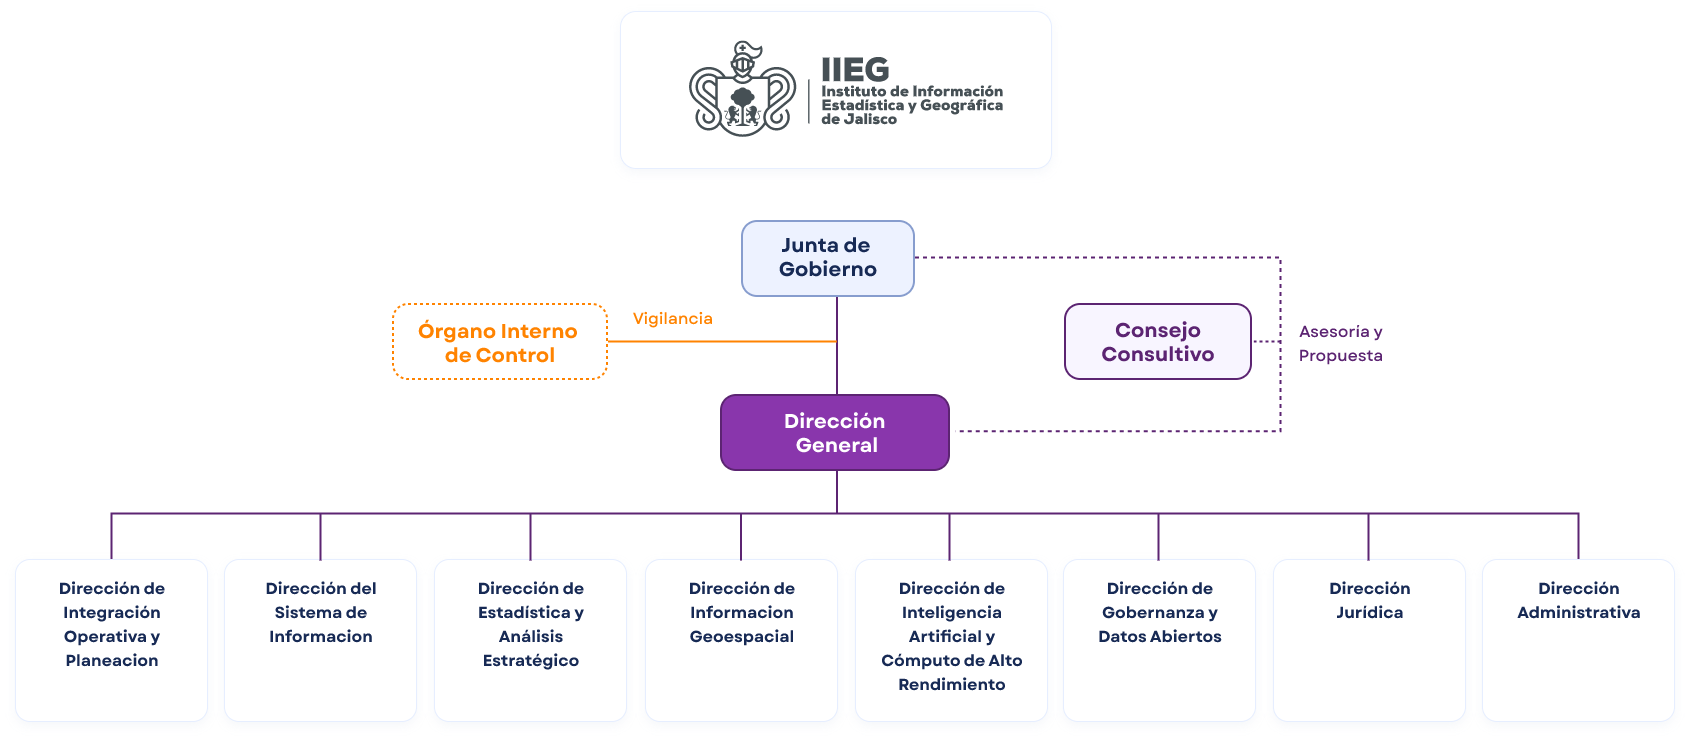
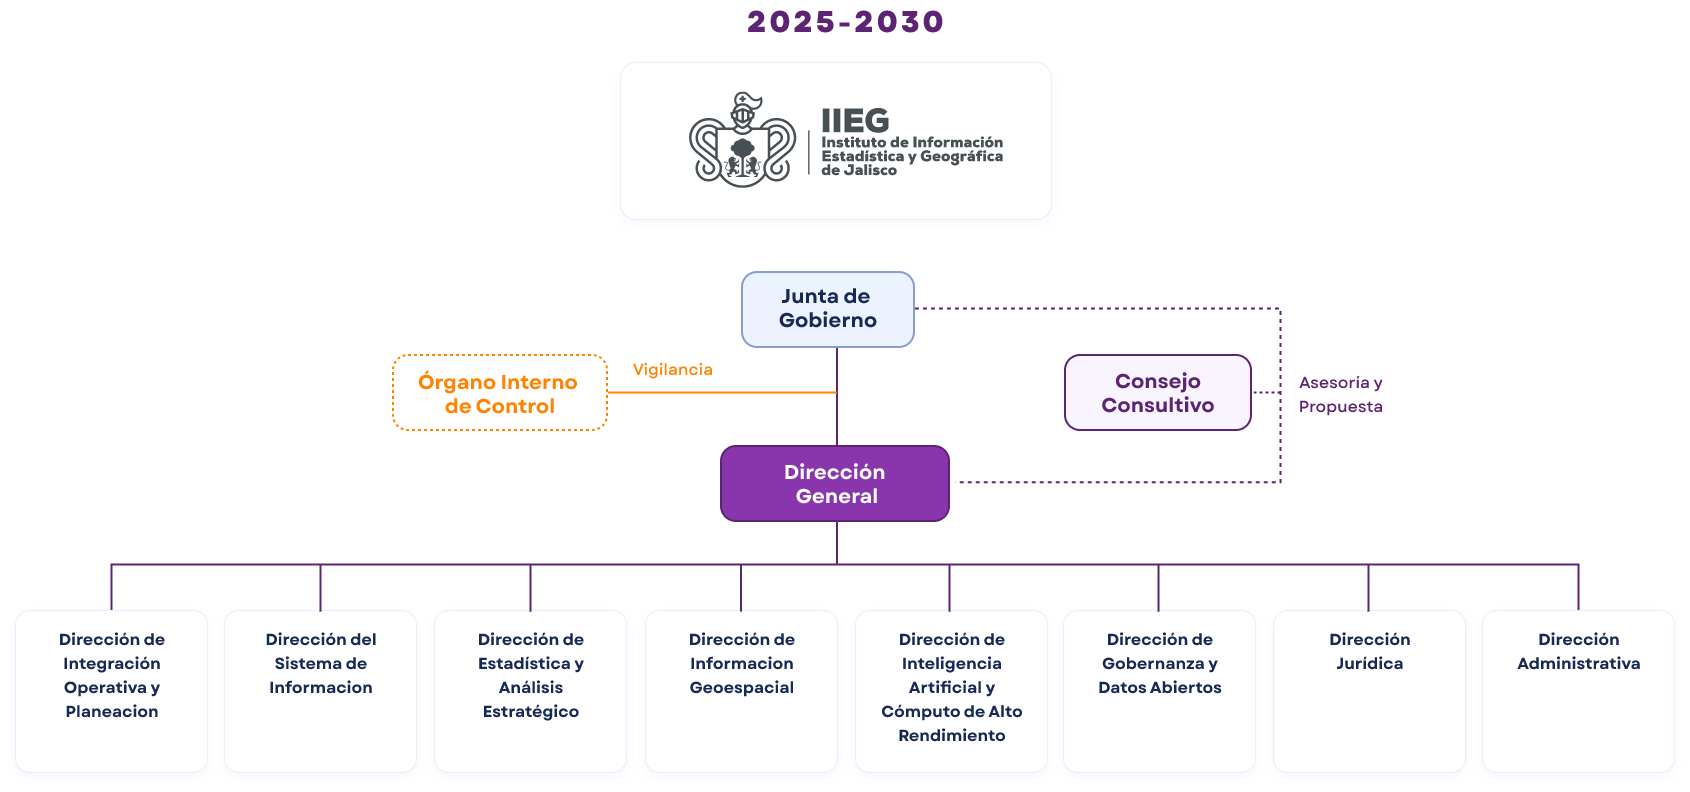
fix: qa organigrama

diff --git a/web/src/components/blocks/organigrama.jsx b/web/src/components/blocks/organigrama.jsx
@@ -2,7 +2,7 @@ export default function MisionVision() {
     return (
         <div className="container mx-auto pb-15 px-2">
             <img src="/img_organigrama.png" alt="Organigrama del IIEG" className="w-full h-auto hidden md:block" />
-            <img src="/img_organigrama_vertical.svg" alt="Organigrama del IIEG" className="w-full h-auto md:hidden" />
+            <img src="/img_organigrama_vertical.png" alt="Organigrama del IIEG" className="w-full h-auto md:hidden" />
         </div>
     );
 }

diff --git a/web/src/index.css b/web/src/index.css
@@ -441,3 +441,7 @@ ul.pagination li:hover{
   color: #172A55;
   opacity: 1; 
 }
+
+.page-organigrama .page-header{
+  padding-bottom: 0px !important;
+}
